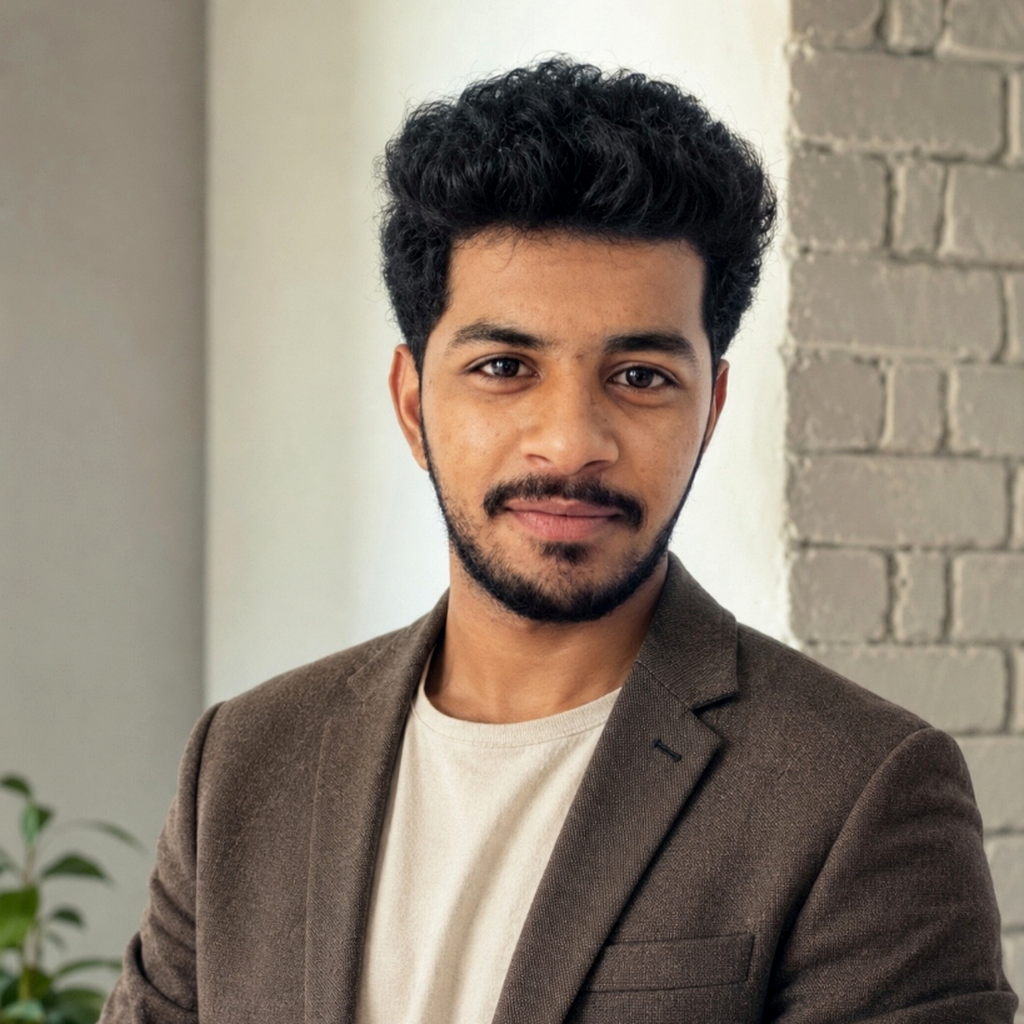
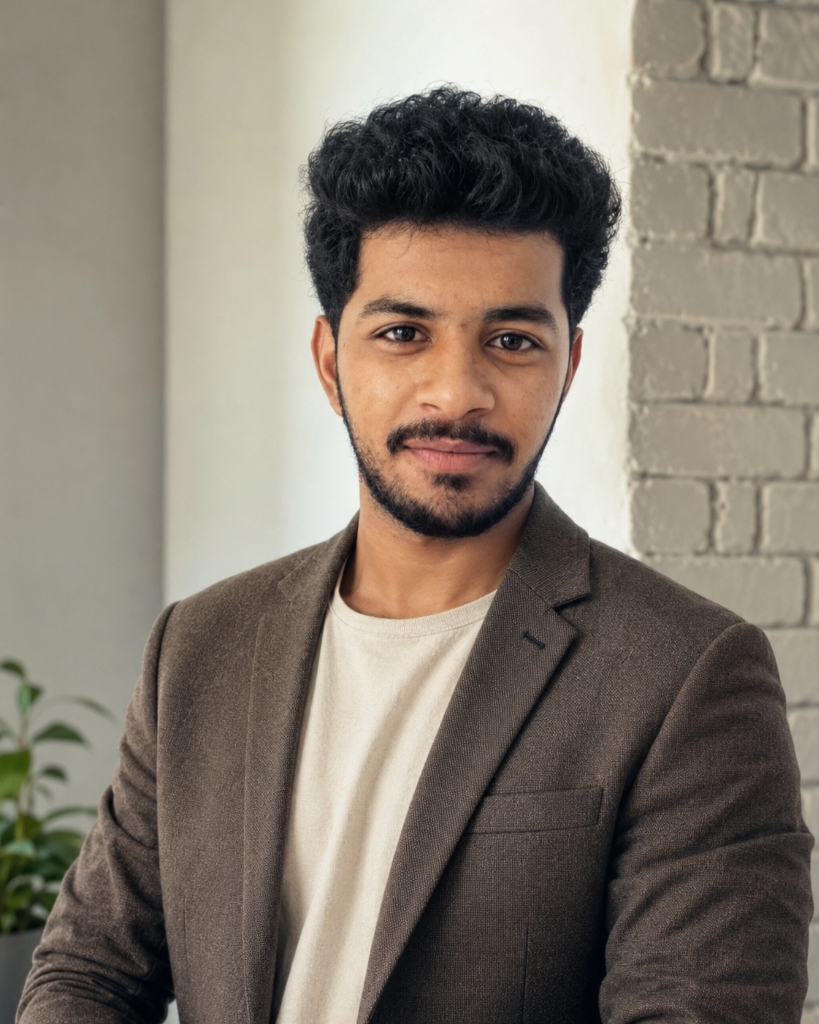
feat: set exact original uploaded photograph with natural colors and full clarity

diff --git a/index.html b/index.html
@@ -179,7 +179,7 @@
           <!-- Right Column: Circular Profile Photo with Glowing Ring -->
           <div class="about-photo-wrapper">
             <div class="about-photo-ring">
-              <img src="assets/profile-photo.png?v=10" alt="Pemma Lakshmi Nivas" class="about-profile-img" onerror="this.onerror=null;this.src='assets/profile-avatar.svg?v=10';">
+              <img src="assets/profile-photo.png?v=11" alt="Pemma Lakshmi Nivas" class="about-profile-img" onerror="this.onerror=null;this.src='assets/profile-avatar.svg?v=11';">
             </div>
           </div>
         </div>

diff --git a/css/components.css b/css/components.css
@@ -1284,7 +1284,7 @@
   width: 100%;
   height: 100%;
   object-fit: cover;
-  object-position: center 15%;
+  object-position: center 20%;
   border-radius: 50%;
   display: block;
   background-color: #07151A;
